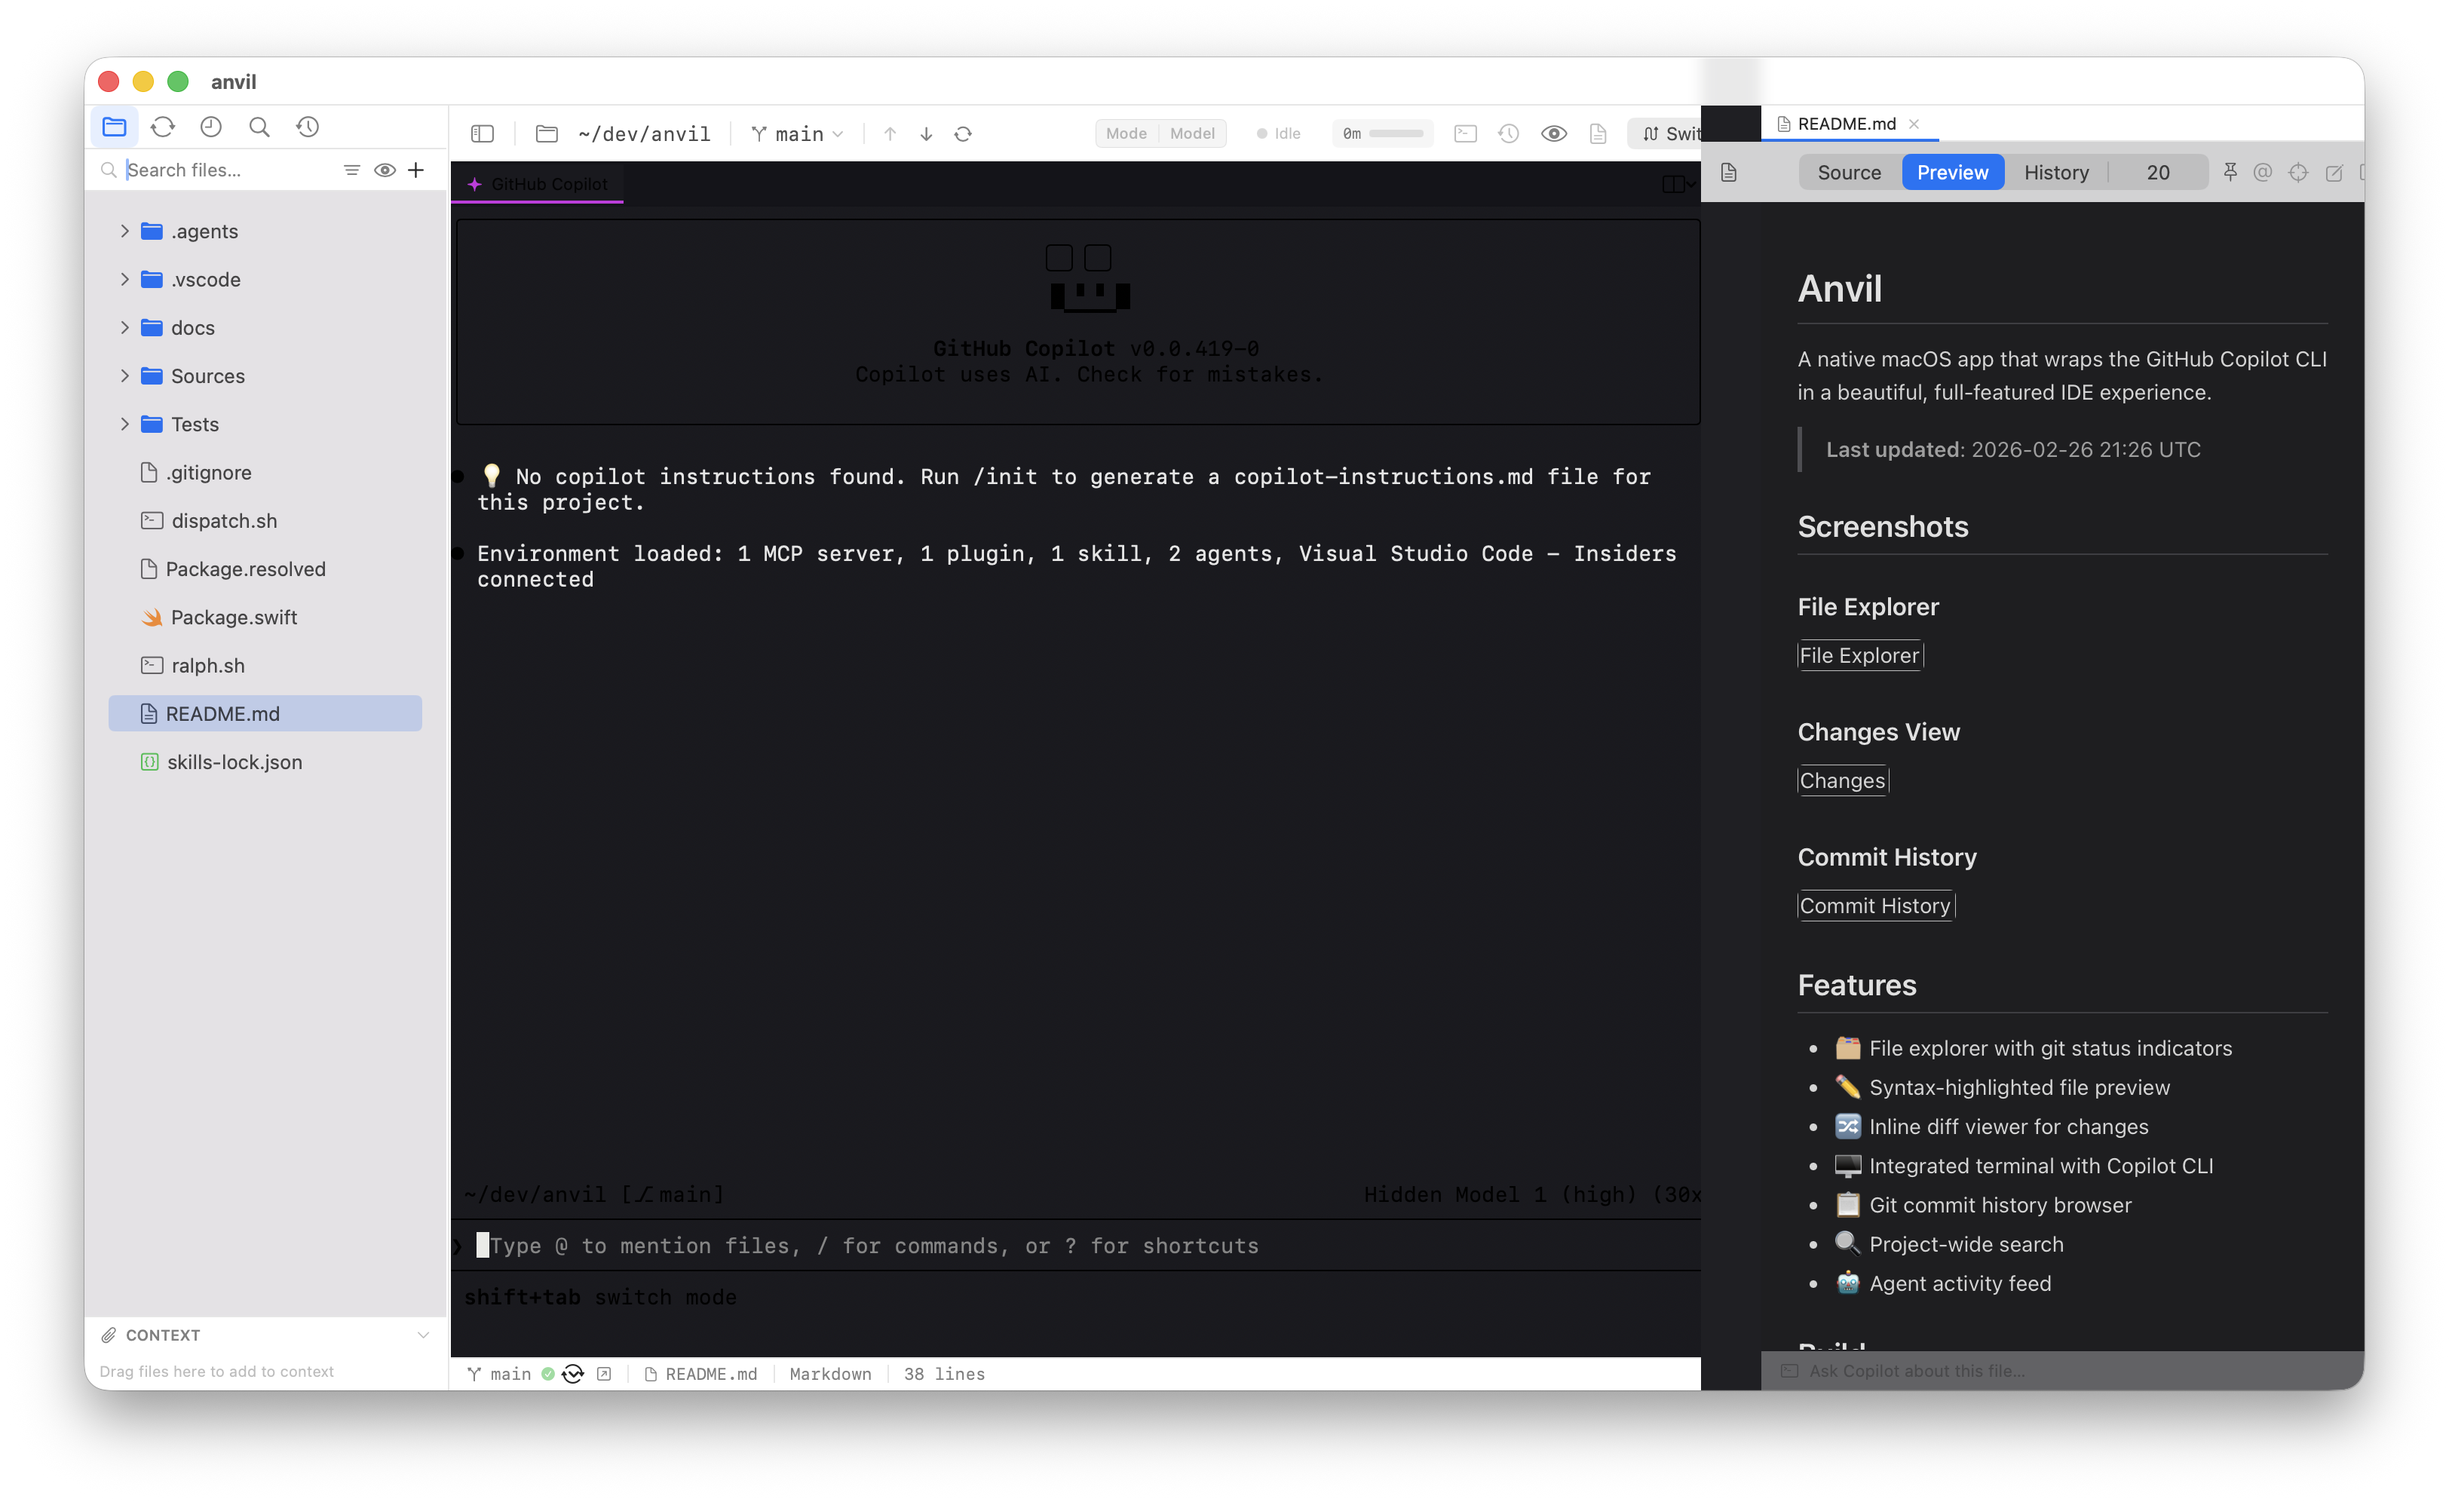
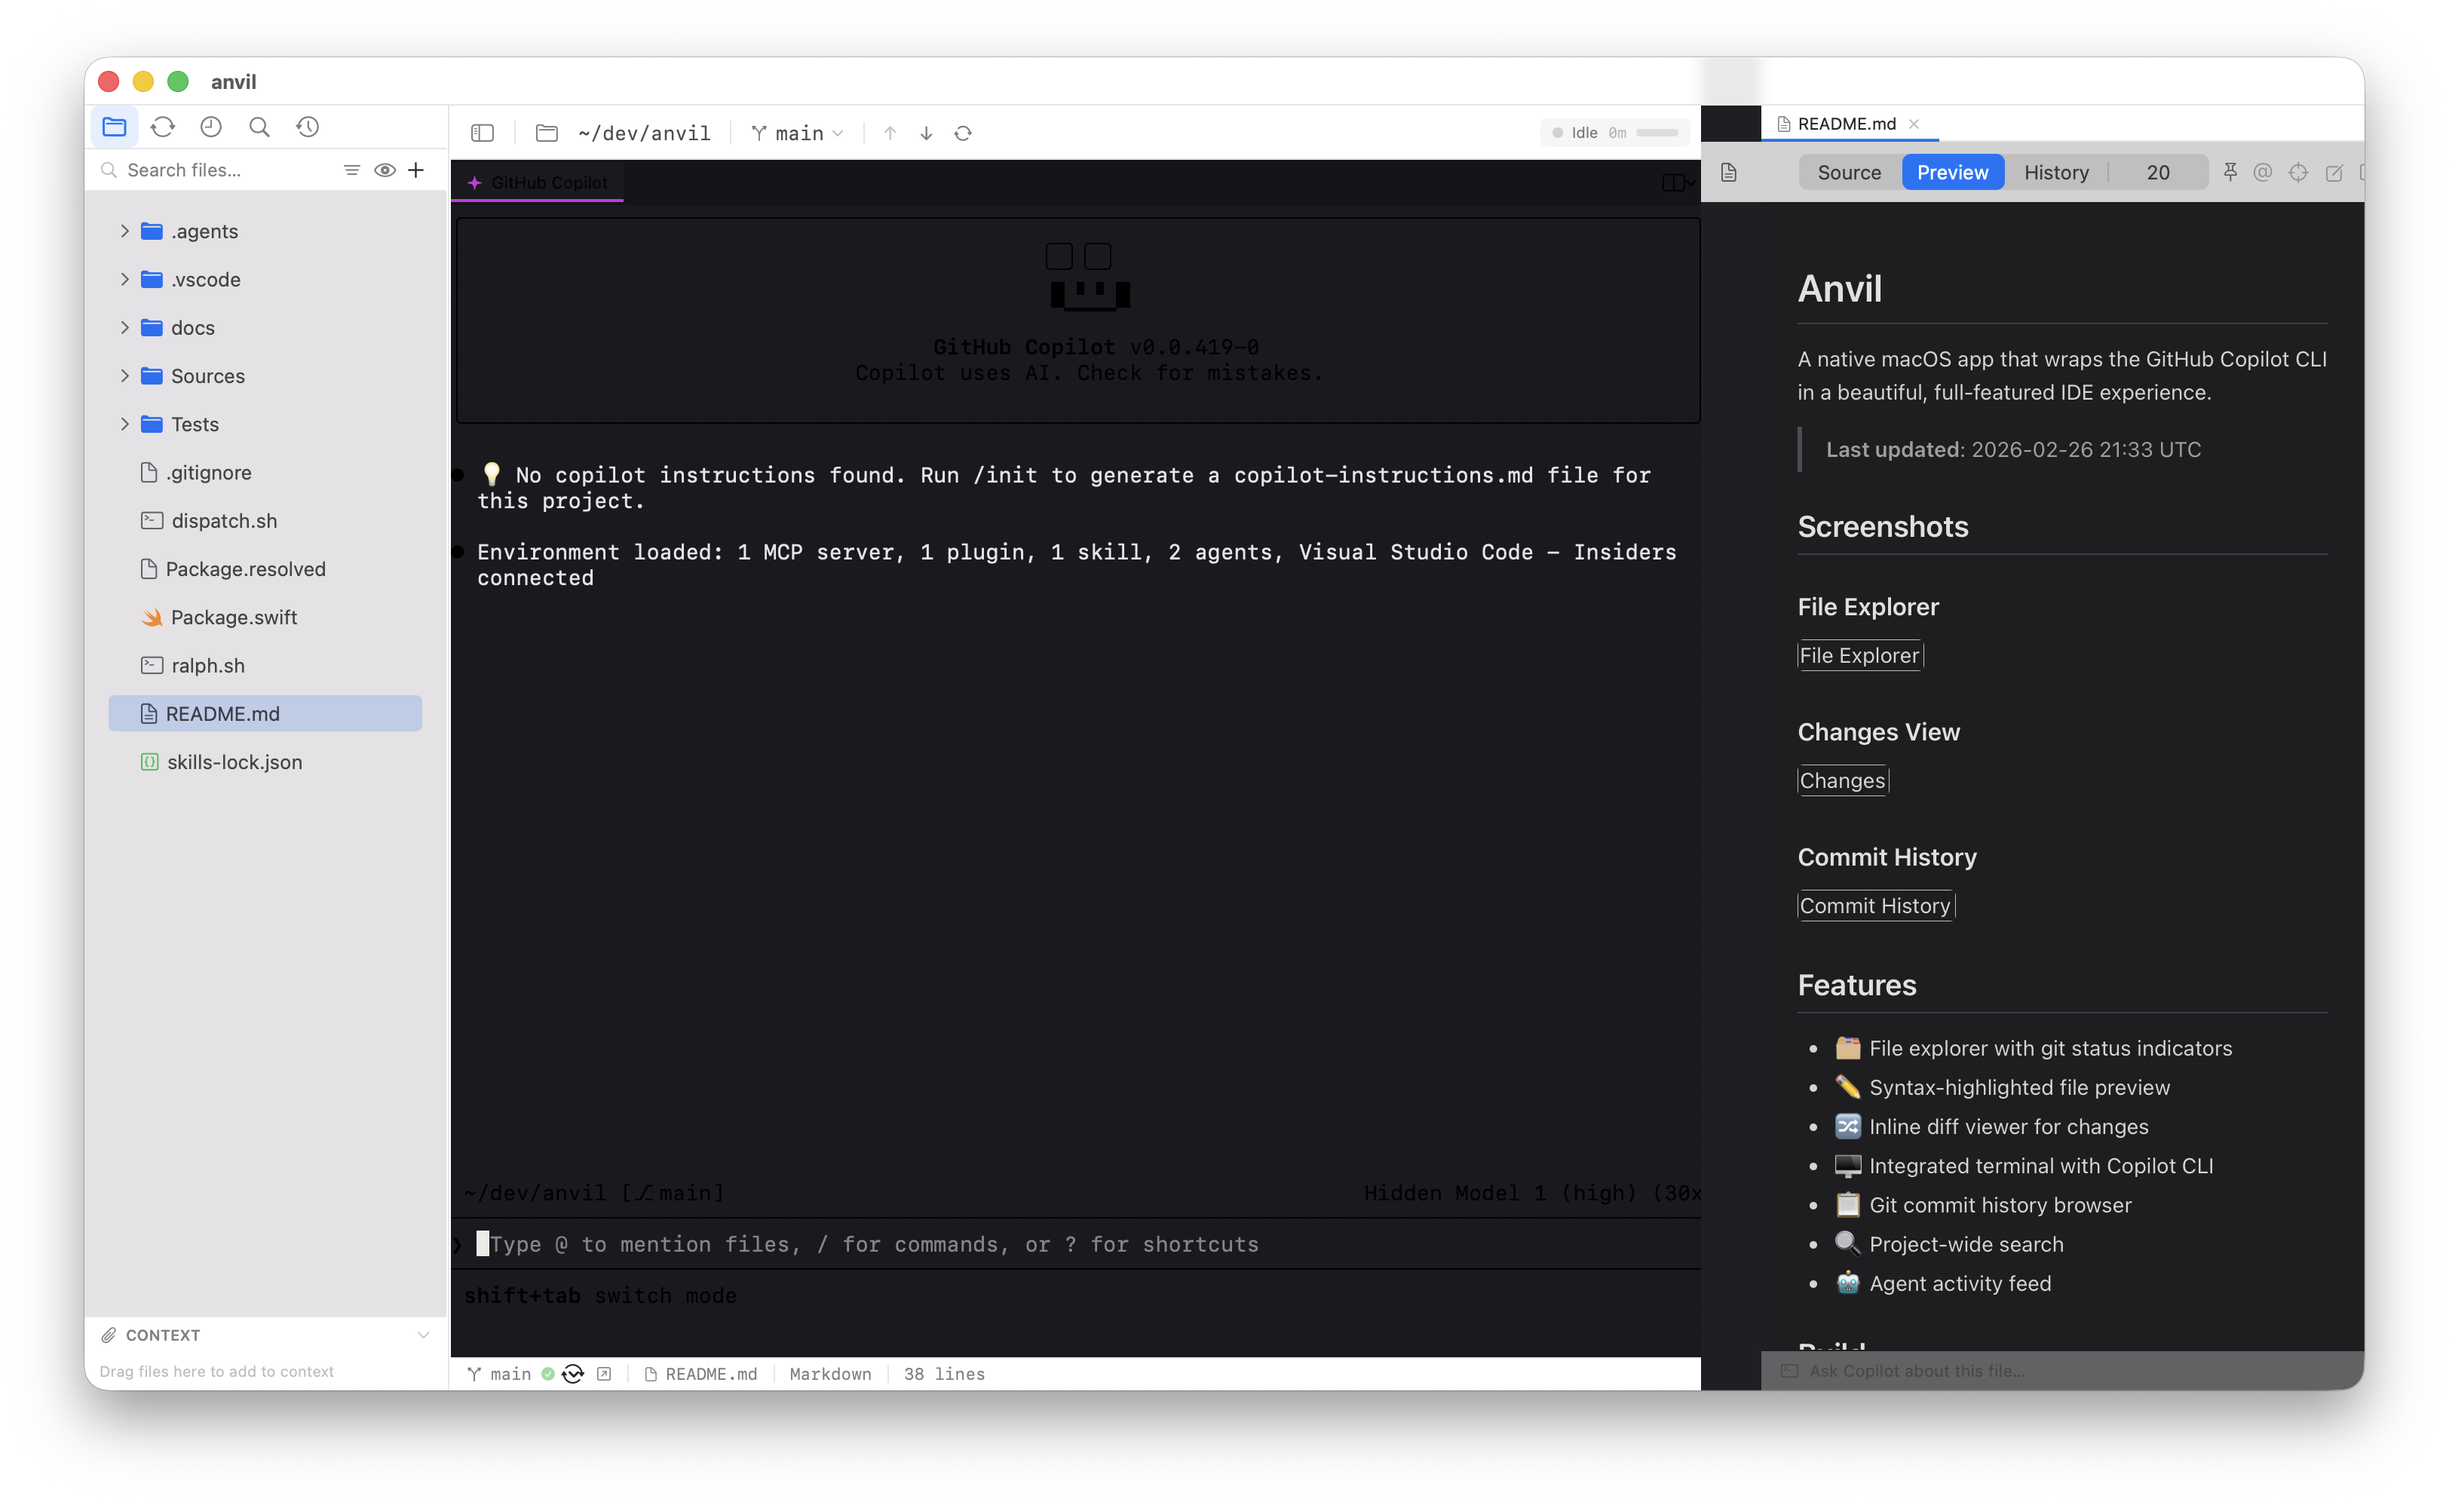
docs: update app screenshots and README (2026-02-26 21:41 UTC)

diff --git a/README.md b/README.md
@@ -2,7 +2,7 @@
 
 A native macOS app that wraps the GitHub Copilot CLI in a beautiful, full-featured IDE experience.
 
-> **Last updated**: 2026-02-26 21:33 UTC
+> **Last updated**: 2026-02-26 21:41 UTC
 
 ## Screenshots
 
